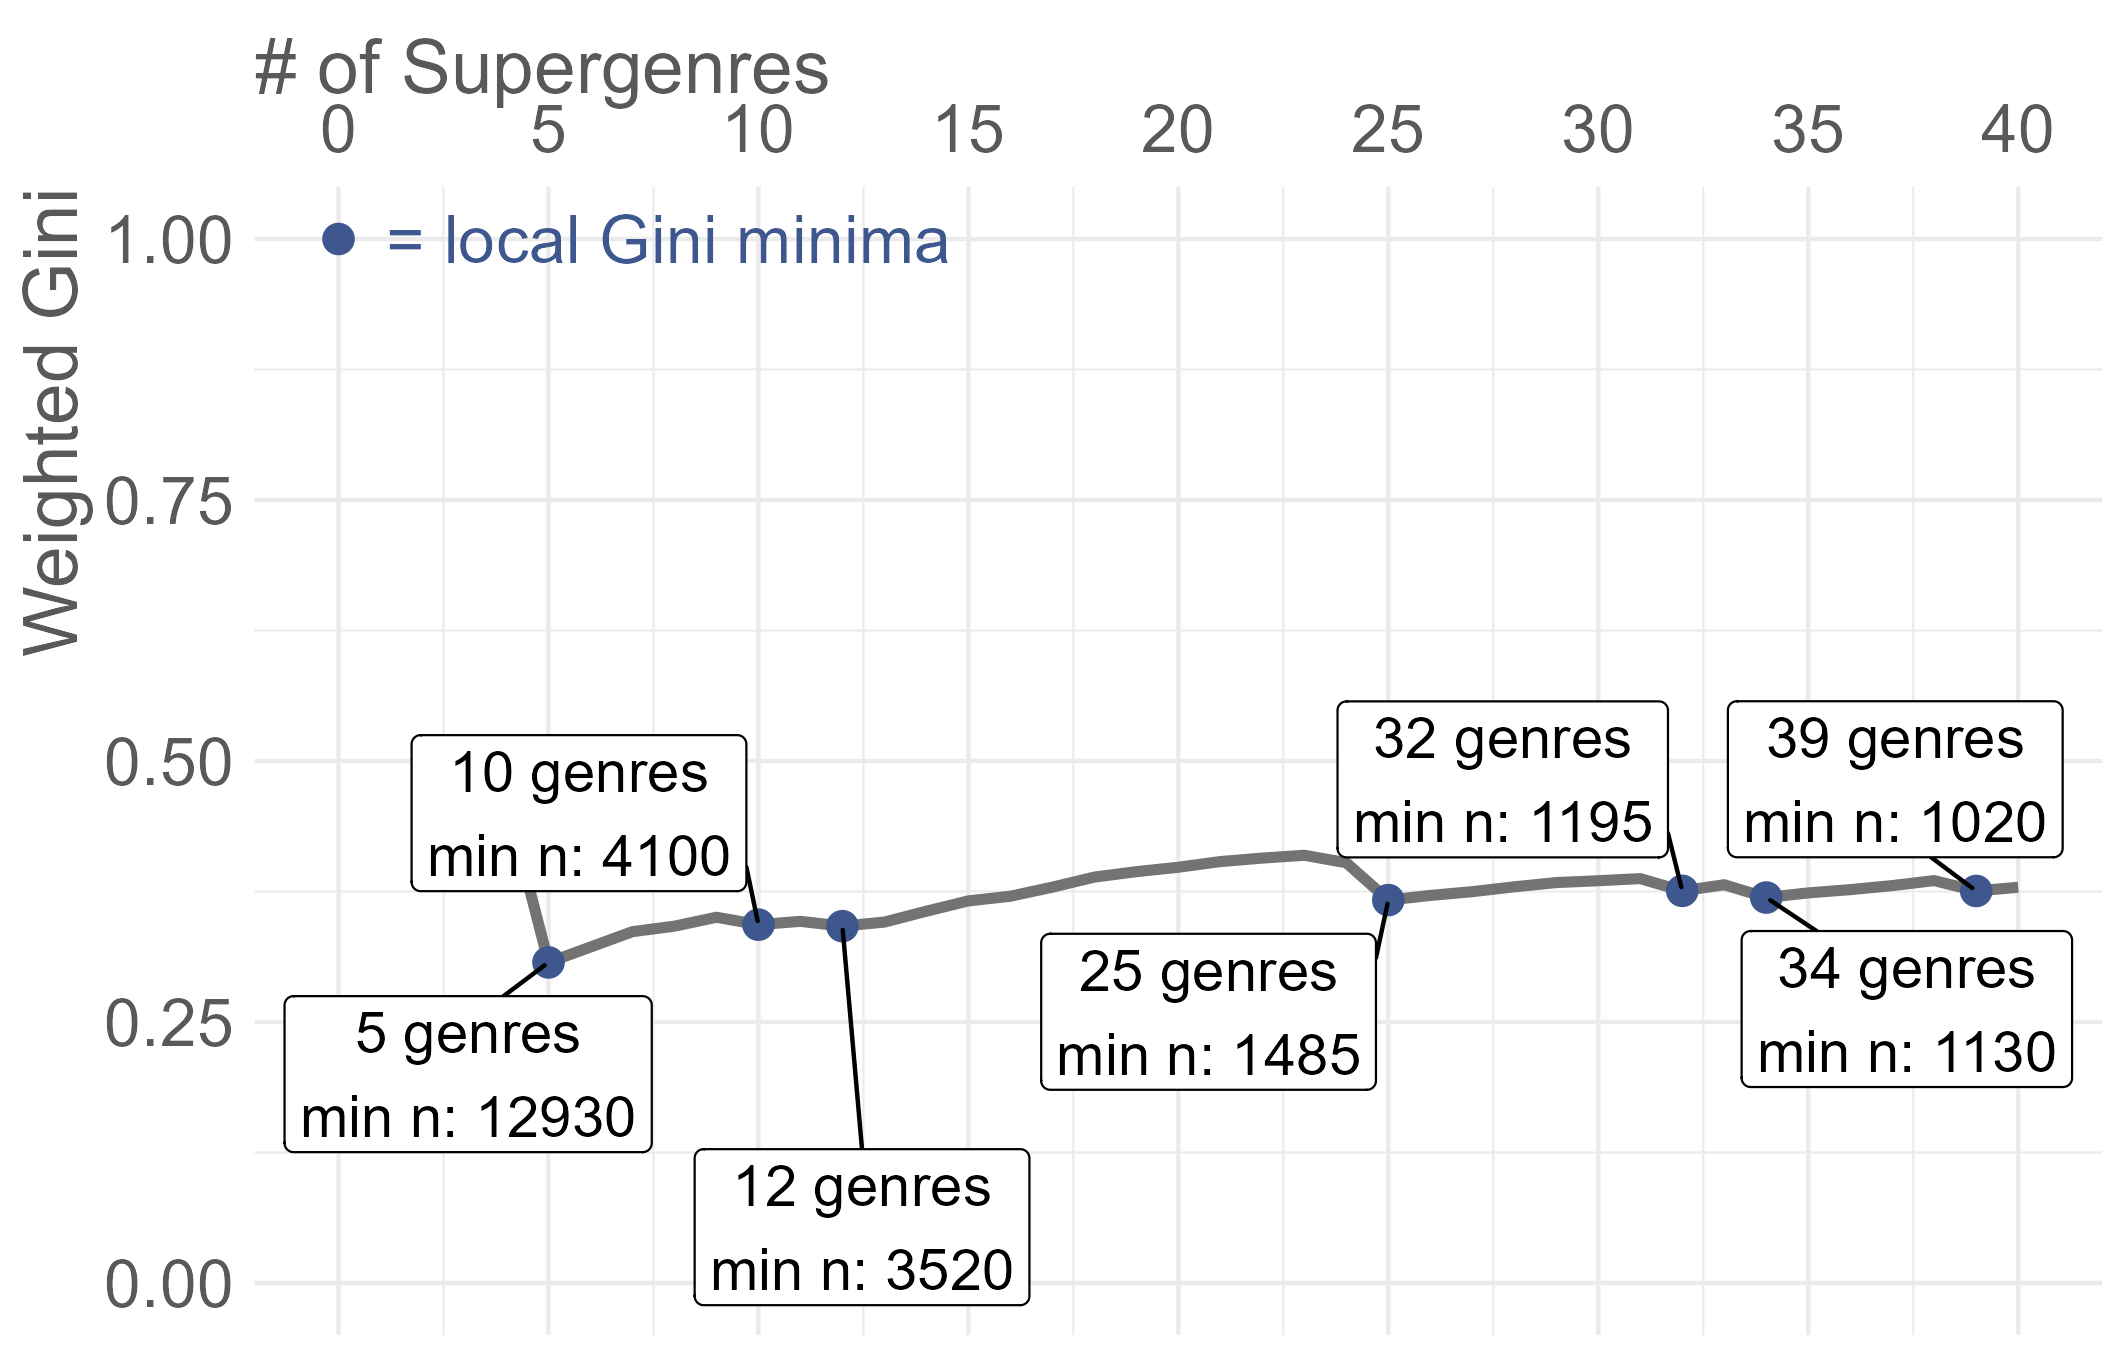
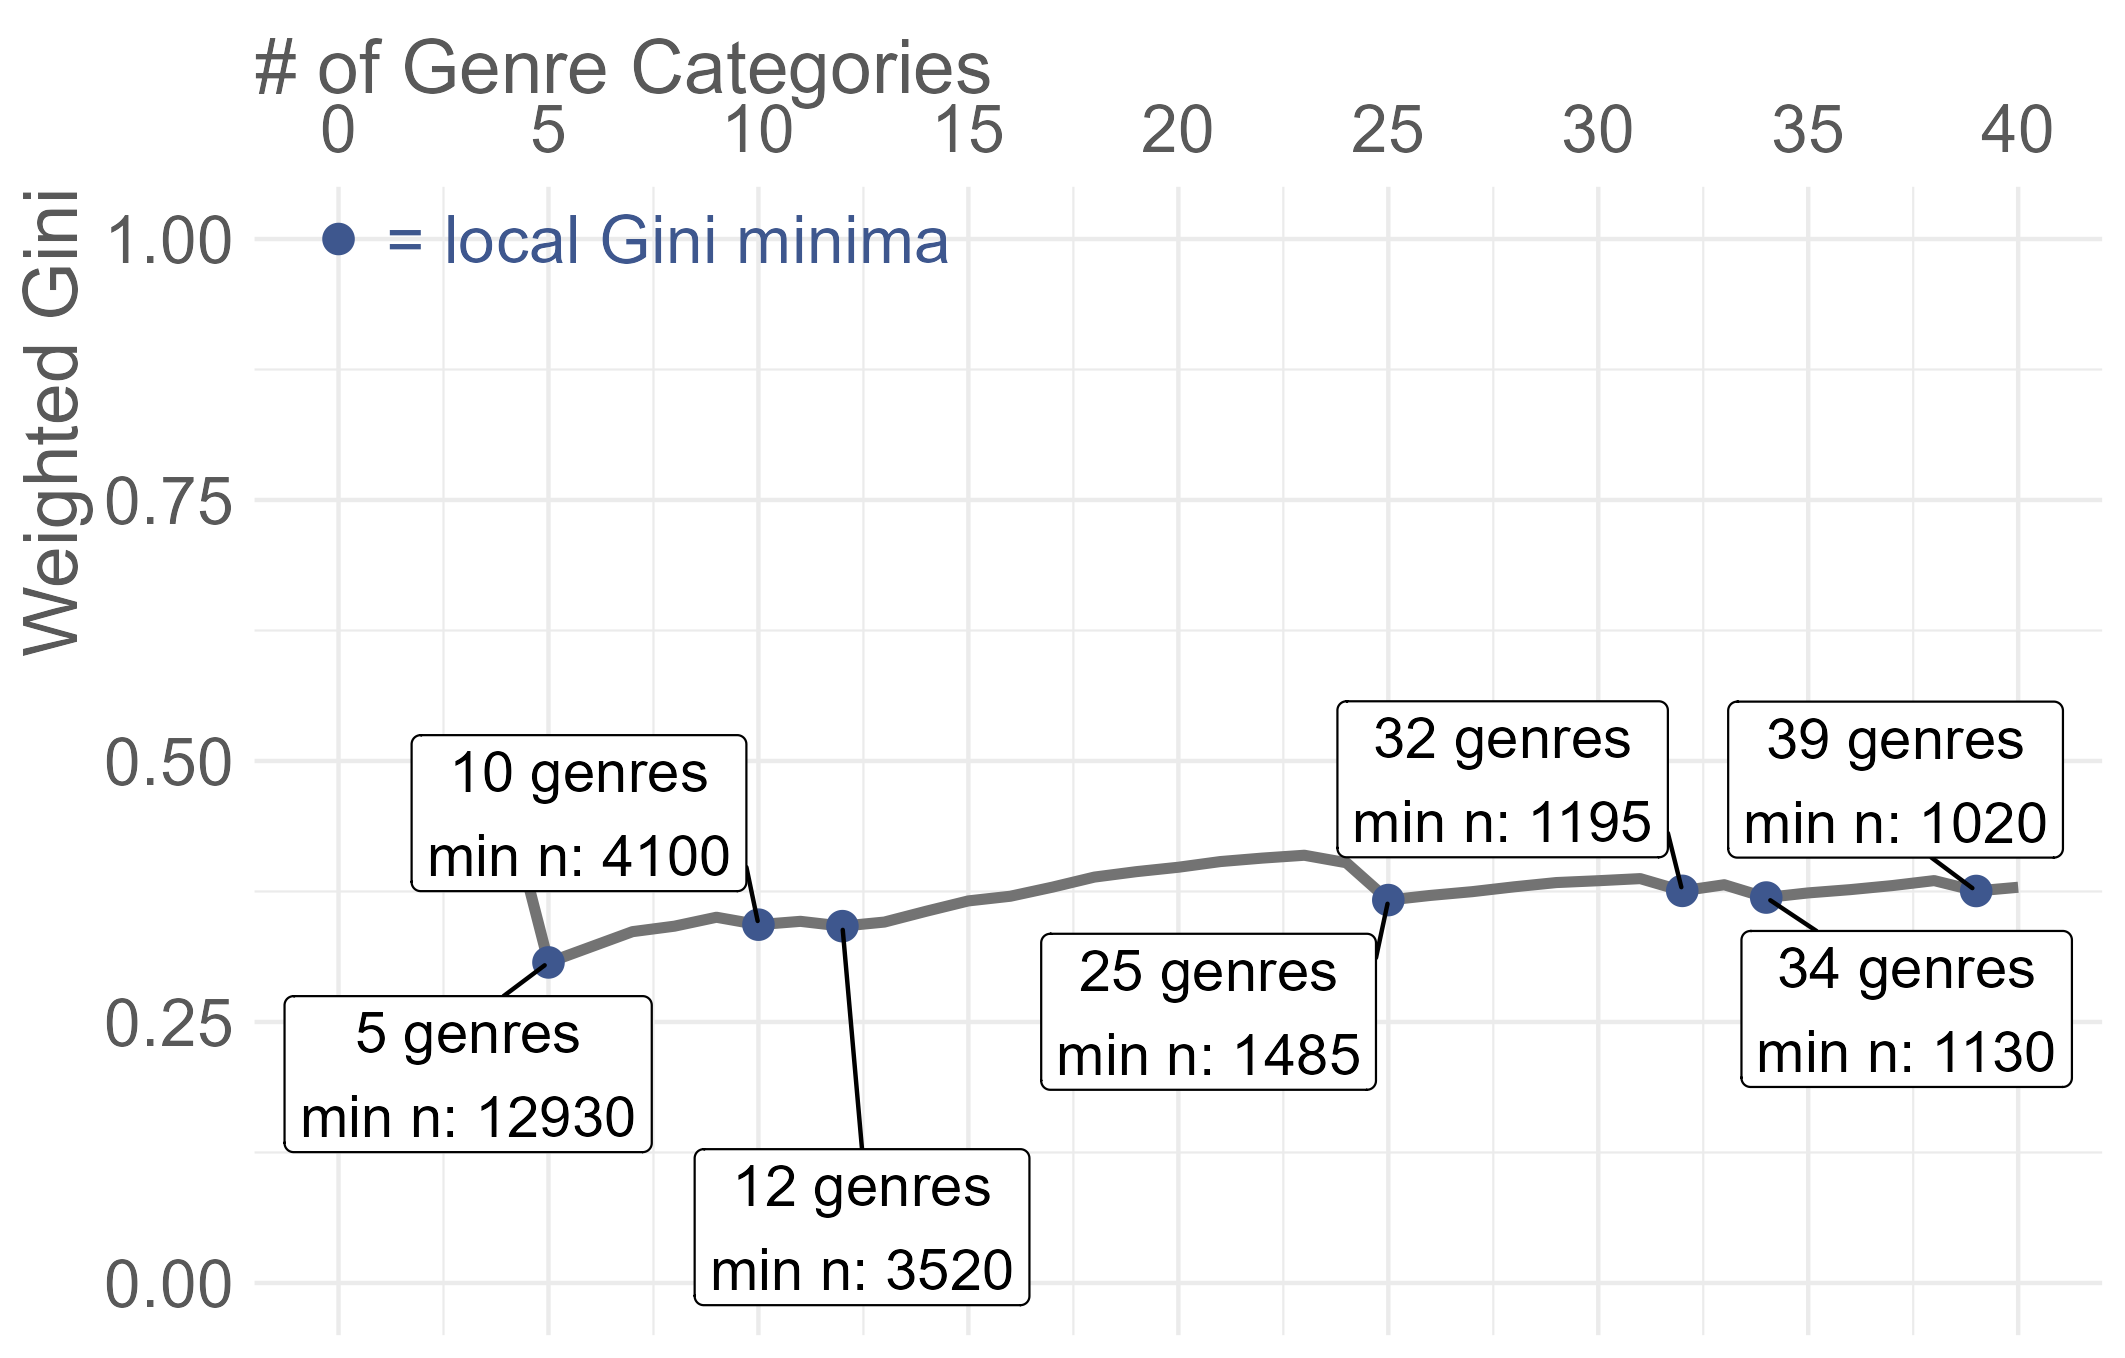
make genre category wording consistent in paper

diff --git a/reports/paper_v1/PowerToThePeople_v1.tex b/reports/paper_v1/PowerToThePeople_v1.tex
@@ -150,6 +150,7 @@ In the example this yields $e'_{\text{\textit{metal}} \rightarrow \text{\textit{
 
 Third, we enforced a strict tree-like structure by assigning each node its single strongest outgoing edge as its \textit{supergenre}; all other edges were discarded. Components without \textit{supergenre} were attached to an artificial root \textit{POPULAR MUSIC} to guarantee connectivity. In the example, \textit{metal} would attach to \textit{rock} unless a stronger edge existed, and \textit{rock} would attach to the root if it had no \textit{supergenre}.
 
+\label{sec:gini_explanation}
 Finally, we balanced the tree in terms of optimizing leaf-node populations on each tree level. Thereto, we estimated each genre node's size as the sum of its assignment probabilities across tracks in the corpus, then computed the Gini coefficient within each hierarchical tree-level for all genre nodes contained, and defined overall tree imbalance as the weighted mean of all tree-level Ginis. We then searched for the least-imbalanced tree by iteratively removing the weakest hierarchical link of the whole tree, reattaching the resulting dangling tree to \textit{POPULAR MUSIC}, and recomputing imbalance again; we then finally selected the iteration with minimal overall tree imbalance.
 
 
@@ -186,13 +187,12 @@ The balance optimization procedure (Figure \ref{fig:rq1_gini_trajectory}) reatta
 
 \section{RQ2: Scalable Granularity}
 \subsection{Methods: Folding Algorithm (FOLDCAT)}
+To derive a scalable number of broader \textit{genre categories} suitable for diverse research questions and statistical applications from COMGET-G, we developed a greedy folding algorithm (FOLDCAT) with three objectives: optimal \textit{genre category} balance, a user-selectable number of \textit{genre categories}, and sufficient track counts per \textit{genre} for robust machine learning and statistical analysis. FOLDCAT iteratively processes leaf \textit{genres} beginning with those deepest in the hierarchy and largest in track count, continuing to the root. For each leaf \textit{genre}, the algorithm checks whether it meets a minimum track count threshold. If it does and its supergenre can sustain removal, the algorithm keeps that leaf \textit{genre} as a \textit{genre category}. Otherwise, the algorithm absorbs the leaf \textit{genre}---along with its siblings and any descendants already processed---into its supergenre by remapping all track assignments upward. This procedure continues until all remaining \textit{genres} meet the minimum threshold. 
 
-In order to derive a scalable number of \textit{genre categories} suitable for diverse research questions and statistical applications from COMGET-G, we developed a greedy folding algorithm (FOLDCAT) aiming at three requirements: optimal \textit{genre category} balance, a user-selectable number of \textit{genre categories}, and sufficient track counts per \textit{genre} for robust machine learning and statistical analysis. FOLDCAT iteratively merges the least populous \textit{genre-nodes} furthest from the root of a COMGET tree with their \textit{supergenres} until all remaining \textit{genres} meet a minimum track count threshold. Here, \textit{genre node size} is again computed as the sum of vote-weighted assignment probabilities across all tracks.  For a desired number of \textit{genre categories}, users can now select the folding solution corresponding to the local Gini minimum, drawing on a tree-level-weighted Gini, thereby ensuring well-balanced categories for each original tree level. Please refer to the digital appendix for a more detailed description of the folding algorithm. 
-
-For the present exemplary analysis using the POPTRAG corpus containing Germany's popular music, we conducted a grid search across minimum \textit{genre sizes} from 1,000 to 15,000 in increments of 5, maximizing within-level balance as measured by a level-weighted Gini coefficient. We then chose 4 different local minima from results for comparision. 
+Here, \textit{genre size} is again computed as the sum of vote-weighted assignment probabilities across all tracks. For a desired number of \textit{genre categories}, users select the folding solution corresponding to a local Gini minimum, drawing on a hierarchy-level-weighted Gini coefficient (see section~\ref{sec:gini_explanation}), thereby ensuring well-balanced \textit{categories} across all hierarchy levels. A detailed flowchart of this procedure appears in the appendix. For the present exemplary analysis using the POPTRAG corpus, we conducted a grid search across minimum \textit{genre sizes} from 1,000 to 15,000 in increments of 5, then selected four different local Gini minima from the results for comparison.
 
 
-\subsection{Results: Germany's Popular Music Supergenres}
+\subsection{Results: Germany's Popular Music Genre Categories}
 
 \begin{figure}[htbp]
   \centering
@@ -201,27 +201,26 @@ For the present exemplary analysis using the POPTRAG corpus containing Germany's
 \label{fig:rq2_gini_trajectory}
 \end{figure}
 
-For our POPTRAG corpus, the folding algorithm identified multiple optimal solutions for a COMGET-G (Figure~\ref{fig:rq2_gini_trajectory}): a low-resolution solution with 5 \textit{genres} (min. 12,930 tracks, Gini 0.307), medium-resolution solutions with 10 and 12 \textit{genres} (min. 4,100 and 3,520 tracks; Gini 0.343 and 0.342), a high-resolution solution with 25 \textit{genres} (min. 1,485 tracks, Gini 0.367), and finer solutions with 32, 34, and 38 \textit{genres} (min. 1,195, 1,130, 1,020 tracks; Gini 0.376, 0.369, 0.375). We focused subsequent analyses on solutions with 5, 12, 25, and 32 \textit{genres}, representing different granularities suitable for various research questions (Figure~\ref{fig:rq2_tree}).
+For our POPTRAG corpus, the folding algorithm identified multiple optimal solutions for a COMGET-G (Figure~\ref{fig:rq2_gini_trajectory}): a low-granularity solution with 5 \textit{genre categories} (min. 12,930 tracks, Gini 0.307), medium-granularity solutions with 10 and 12 \textit{genre categories} (min. 4,100 and 3,520 tracks; Gini 0.343 and 0.342), a high-granularity solution with 25 \textit{genre categories} (min. 1,485 tracks, Gini 0.367), and solutions with higher granularity, comprising 32, 34, and 38 \textit{genre categories} (min. 1,195, 1,130, 1,020 tracks; Gini 0.376, 0.369, 0.375). We focused subsequent analyses on solutions with 5, 12, 25, and 32 \textit{genre categories}, representing different granularities suitable for various research questions (Figure~\ref{fig:rq2_tree}).
 
 
 \begin{figure}[htbp]
   \centering
   \includegraphics[width=\columnwidth]{figures/supergenre_hierarchy.png}
-  \caption{Folded COMGET-G hierarchies for POPTRAG corpus at four different resolutions (5, 12, 25, 32 genre categories). Colors indicate additional genres introduced at each finer resolution (blue = 5; red = 12; green = 25; grey = 32). Node size represents approximate track count in POPTRAG (sum of vote-weighted assignment probabilities).}
+  \caption{Folded COMGET-G hierarchies for POPTRAG corpus at four different granularities (5, 12, 25, 32 \textit{genre categories}). Colors indicate additional categories introduced at each finer resolution (blue = 5; red = 12; green = 25; grey = 32). Node size represents approximate track count in POPTRAG (sum of vote-weighted assignment probabilities).}
 \label{fig:rq2_tree}
 \end{figure}
 
-COMGET-G5 comprises \textit{rock}, \textit{pop}, \textit{hip hop}, \textit{electronic}, and \textit{metal} (in descending order of track count). In COMGET-G12, \textit{jazz} and \textit{schlager} emerge as further distinct \textit{pop subgenres}, while \textit{rock subgenres} including \textit{heavy metal}, \textit{alternative rock}, \textit{pop rock}, \textit{hard rock}, and \textit{indie rock} appear at the same level. Notably, listeners do not classify \textit{heavy metal} as a \textit{subgenre} of \textit{metal} but as a direct \textit{subgenre} of \textit{rock} on the same hierarchy level as \textit{metal}.
+COMGET-G5 comprises \textit{rock}, \textit{pop}, \textit{hip hop}, \textit{electronic}, and \textit{metal} (in descending order of track count). In COMGET-G12, \textit{jazz} and \textit{schlager} emerge as further distinct \textit{pop subgenre categories}, while \textit{rock subgenre categories} including \textit{heavy metal}, \textit{alternative rock}, \textit{pop rock}, \textit{hard rock}, and \textit{indie rock} appear at the same level. Notably, listeners do not classify \textit{heavy metal} as a \textit{subgenre category} of \textit{metal} but as a direct \textit{subgenre category} of \textit{rock} on the same hierarchy level as \textit{metal}.
 
-COMGET-G25 introduces further \textit{rock subgenres} (\textit{punk}, \textit{progressive rock}, \textit{folk}, \textit{folk rock}, \textit{classic rock}, \textit{blues rock}, \textit{singer-songwriter}) and additional \textit{pop subgenres} (\textit{soul}, \textit{classical}, \textit{synth-pop}, \textit{r\&b}). A third hierarchy level appears with \textit{death metal} as a \textit{subgenre} of \textit{metal} and \textit{power metal} as a \textit{subgenre} of \textit{heavy metal}. COMGET-G32 adds \textit{house} as an \textit{electronic subgenre} and additional \textit{rock} and \textit{pop} branches (\textit{blues}, \textit{country}, \textit{new wave}, \textit{soft rock}, \textit{dance-pop}, \textit{reggae}). \textit{hip hop} \textit{subgenres} appear only in more fine-grained solutions (\textit{pop rap} as 33rd genre, \textit{trap} as 38th genre).
+COMGET-G25 introduces further \textit{rock subgenre categories} (\textit{punk}, \textit{progressive rock}, \textit{folk}, \textit{folk rock}, \textit{classic rock}, \textit{blues rock}, \textit{singer-songwriter}) and additional \textit{pop subgenre categories} (\textit{soul}, \textit{classical}, \textit{synth-pop}, \textit{r\&b}). A third hierarchy level appears with \textit{death metal} as a \textit{subgenre category} of \textit{metal} and \textit{power metal} as a \textit{subgenre category} of \textit{heavy metal}. COMGET-G32 adds \textit{house} as an \textit{electronic subgenre category} and additional \textit{rock} and \textit{pop} branches (\textit{blues}, \textit{country}, \textit{new wave}, \textit{soft rock}, \textit{dance-pop}, \textit{reggae}). \textit{hip hop} \textit{subgenre categories} appear only in more fine-grained solutions (\textit{pop rap} as 33rd genre, \textit{trap} as 38th genre).
 
 
 \section{RQ3: Validity and ML-Classifier}
 \subsection{Methods: Single Labels, Content Validity, Features, Workflow}
-To compare the COMGET-G genre assignments to other folksonomies and for training a classifier, each track in the corpus obtained a \textit{single COMGET-G genre label} via majority voting: all valid original \textit{MusicBrainz} tags assigned to a track were mapped to their \textit{category assignment} in folded COMGET-G, then each track received the \textit{category} tag with the highest summed votes. Ties were resolved by selecting the \textit{genre} with lower total assignment probability in the full dataset, thereby favoring more detailed \textit{genre} assignments. We derived \textit{single genre labels} for each track at four levels of granularity (COMGET-G5, COMGET-G12, COMGET-G25, COMGET-G32). For demonstrating the content validity of our exemplary 12-genre solution, we compared resulting \textit{genre category assignments} to the genre labels assigned by the \textit{Discogs} community using a contingency table. 
+To compare the COMGET-G genre assignments to other folksonomies and for training a classifier, each track in the corpus obtained a \textit{single COMGET-G genre label} via majority voting: all valid original \textit{MusicBrainz} tags assigned to a track were mapped to their \textit{category assignment} in folded COMGET-G, then each track received the \textit{category} tag with the highest summed votes. Ties were resolved by selecting the \textit{genre category} with lower total assignment probability in the full dataset, thereby favoring more detailed \textit{genre category} assignments. We derived \textit{single genre labels} for each track at four levels of granularity (COMGET-G5, COMGET-G12, COMGET-G25, COMGET-G32). For demonstrating the content validity of our exemplary 12-genre solution, we compared resulting \textit{genre category assignments} to the genre labels assigned by the \textit{Discogs} community using a contingency table. 
 
-To determine if an automated classifier could predict the \textit{genres} identified by our COMGET-G folding algorithm, we trained independent classifiers for each. To that end, we augmented POPTRAG with 192 descriptor variables covering \textit{musical style}, \textit{release context}, \textit{lyrical content}, and \textit{popularity} from music platforms \textit{Spotify}, \textit{MusicBrainz}, \textit{AcousticBrainz}, \textit{Genius}, and \textit{Deezer} via ISRC matching or fuzzy string matching via either API-access or web scraping. \textit{AcousticBrainz} provided community-calculated \textit{audio features}; \textit{MusicBrainz} supplied artist demographics (\textit{persona}, \textit{origin}, \textit{birth year}, \textit{gender}); \textit{Spotify} and \textit{Deezer} contributed \textit{popularity} metrics and \textit{Echo-Nest audio features}. From \textit{Spotify's artist-level genre} tags we derived 69 distribution-genre flags (e.g., whether a track's artist is tagged as `reggae' on \textit{Spotify}) by applying the same co-occurrence algorithm used to build COMGET-G but operating on Spotify artist genres.
-
+To determine if an automated classifier could predict the COMGET-G \textit{genre categories} identified by FOLDCAT, we trained independent classifiers for each. To that end, we augmented POPTRAG with 192 descriptor variables covering \textit{musical style}, \textit{release context}, \textit{lyrical content}, and \textit{popularity} from music platforms \textit{Spotify}, \textit{MusicBrainz}, \textit{AcousticBrainz}, \textit{Genius}, and \textit{Deezer} via ISRC matching or fuzzy string matching via either API-access or web scraping. \textit{AcousticBrainz} provided community-calculated \textit{audio features}; \textit{MusicBrainz} supplied artist demographics (\textit{persona}, \textit{origin}, \textit{birth year}, \textit{gender}); \textit{Spotify} and \textit{Deezer} contributed \textit{popularity} metrics and \textit{Echo-Nest audio features}. From \textit{Spotify's artist-level genre} tags we derived 69 distribution-genre flags (e.g., whether a track's artist is tagged as `reggae' on \textit{Spotify}) by applying the same co-occurrence algorithm used to build COMGET-G but operating on Spotify artist genres.
 
 In our workflow, we first discarded observations with more than 40\% missing values on any variable, retaining 155,093 tracks (92\%). We then performed an 80/20 train–holdout split at the artist level to mitigate artist leakage effects~\citep{flexerEffectsAlbumArtist2010}. For training, we employed 5-fold cross-validation (also group-split by artist) for hyperparameter tuning. To stabilize categorical predictors, we drew a 20\% subsample of the training set, created artist‑grouped CV folds on that subsample, and relabeled any factor level that occurred fewer than 100 times in at least one fold as ``other''. Predictors that collapsed to a single ``other''-level as well as two‑level predictors where the ``other'' level had fewer than 100 observations, were removed. This cleaning reduced the number of variables from 192 to 149. All remaining categorical predictors were dummy-coded, using the most common level as the reference.
 
@@ -250,7 +249,7 @@ After selecting the learner with best performance accross folds, we performed a 
   \label{fig:rq2_dc}
 \end{figure}
 
-\textit{Discogs'} 15-genre taxonomy approximates COMGET-G12 in scale. For approximately 5\% of tracks with COMGET-G assignments, we found no \textit{Discogs} counterpart, introducing minimal popularity bias. The contingency table (Figure~\ref{fig:rq2_dc}) reveals strong alignment for \textit{electronic}, \textit{hard rock}, and \textit{metal}. Even where \textit{Discogs} includes a \textit{Jazz} category, COMGET-G's \textit{jazz} overlaps substantially with \textit{Discogs'} \textit{Electronic} and \textit{Pop}. Similarly, \textit{pop rock} is distributed across Discogs' \textit{Rock}, \textit{Pop}, and \textit{Electronic}; \textit{schlager} emerges in \textit{Pop} (similar label to its COMGET-G \textit{supergenre}) with minor overlap to \textit{Rock}. Five \textit{Discogs} categories—\textit{Blues}, \textit{Brass \& Military}, \textit{Children's}, \textit{Non-music}, and \textit{Stage \& Screen}—show minimal correspondence to any COMGET-G12 \textit{genre}, mostly consistent with our noise-reduction filtering and focus on popular music. COMGET-G's \textit{pop} category is distributed widely across \textit{Discogs genres} (\textit{eEectronic}, \textit{Pop}, \textit{Rock}), reflecting pop's eclectic character. Seven of twelve COMGET-G12 \textit{genres} overlap most strongly with \textit{Discogs' Rock}, suggesting \textit{Discogs} lacks granular rock subgenre labels needed to represent German popular music adequately.
+\textit{Discogs'} 15-genre taxonomy approximates COMGET-G12 in scale. For approximately 5\% of tracks with COMGET-G assignments, we found no \textit{Discogs} counterpart, introducing minimal popularity bias. The contingency table (Figure~\ref{fig:rq2_dc}) reveals strong alignment for \textit{electronic}, \textit{hard rock}, and \textit{metal}. Even where \textit{Discogs} includes a \textit{Jazz} category, COMGET-G's \textit{jazz} overlaps substantially with \textit{Discogs'} \textit{Electronic} and \textit{Pop}. Similarly, \textit{pop rock} is distributed across Discogs' \textit{Rock}, \textit{Pop}, and \textit{Electronic}; \textit{schlager} emerges in \textit{Pop} (similar label to its COMGET-G \textit{supergenre}) with minor overlap to \textit{Rock}. Five \textit{Discogs} categories—\textit{Blues}, \textit{Brass \& Military}, \textit{Children's}, \textit{Non-music}, and \textit{Stage \& Screen}—show minimal correspondence to any COMGET-G12 \textit{genre category}, mostly consistent with our noise-reduction filtering and focus on popular music. COMGET-G's \textit{pop} category is distributed widely across \textit{Discogs genres} (\textit{eEectronic}, \textit{Pop}, \textit{Rock}), reflecting pop's eclectic character. Seven of twelve COMGET-G12 \textit{genre categories} overlap most strongly with \textit{Discogs' Rock}, suggesting \textit{Discogs} lacks granular rock subgenre category labels needed to represent German popular music adequately.
 
 \subsection{Results: Classification Performance for different degrees of granularity}
 \begin{figure}[htbp]
@@ -260,7 +259,7 @@ After selecting the learner with best performance accross folds, we performed a 
 \label{fig:rq3_proto}
 \end{figure}
 
-Model comparison (Figure~\ref{fig:rq3_proto}) shows that all four learners perform similarly on the 20\% subsample in terms of macro F1. LightGBM emerged as the strongest performer at both resolutions (COMGET-G5 and COMGET-G12) and was selected as the final learner for all subsequent analyses. GLMNET ranked second for COMGET-G5 but performed worst for COMGET-G12, indicating that its linear decision boundary assumption does not scale to higher-resolution classification tasks.
+Model comparison (Figure~\ref{fig:rq3_proto}) shows that all four learners perform similarly on the 20\% subsample in terms of macro F1. LightGBM emerged as the strongest performer at both granularities (COMGET-G5 and COMGET-G12) and was selected as the final learner for all subsequent analyses. GLMNET ranked second for COMGET-G5 but performed worst for COMGET-G12, indicating that its linear decision boundary assumption does not scale to higher-resolution classification tasks.
 
 \begin{figure*}[htbp]
   \centering
@@ -278,7 +277,7 @@ Model comparison (Figure~\ref{fig:rq3_proto}) shows that all four learners perfo
     \caption{COMGET-G12}
     \label{fig:rq3_cm_medium}
   \end{subfigure}
-  \caption{Confusion matrices for the final GBM models on the hold-out set. Values show $P(\text{Predicted}|\text{Actual})$; \textit{certainty} indicates the mean assignment probability for each \textit{genre} across community votes.}
+  \caption{Confusion matrices for the final GBM models on the hold-out set. Values show $P(\text{Predicted}|\text{Actual})$; \textit{certainty} indicates the mean assignment probability for each \textit{genre category} across community votes.}
 \label{fig:rq3_cm_low_medium}
 \end{figure*}
 
@@ -327,12 +326,12 @@ COMGET-G32 yielded a further degradation in benchmarks ($\text{F1}_{\text{macro;
 \end{figure}
 
 
-Figure \ref{fig:rq3_varimp} shows the top 20 most important features for automated classification of COMGET-G5, COMGET-G12, and COMGET-G25 with the final LightGBM learner. While we find similar features in the top 20 across all three levels of granularity (e.g., \textit{acousticness (ECHONEST)}, \textit{artist distributed as ``metal''}, \textit{age of artist}), the importance of single features differs. For COMGET-G5, features that describe general style characteristics (e.g., \textit{acousticness}, \textit{speeciness}, \textit{explicitness of lyrics}) and artist persona (e.g., \textit{single artist vs. band}, \textit{age of artist}) are most important. For COMGET-G12, \textit{popularity} features and the \textit{release year} gain importance. For COMEGET-25G the most important features are mostly artist-related, indicating that fine-grained \textit{genre} distinctions rely primarily on release-milieu signals rather than audio properties.
+Figure \ref{fig:rq3_varimp} shows the top 20 most important features for automated classification of COMGET-G5 and COMGET-G12 with the final LightGBM learner. While we find similar features in the top 20 across all three levels of granularity (e.g., \textit{acousticness (Echo-Nest)}, \textit{artist distributed as ``metal''}, \textit{age of artist}), the importance of single features differs. For COMGET-G5, features that describe general style characteristics (e.g., \textit{acousticness}, \textit{speeciness}, \textit{explicitness of lyrics}) and artist persona (e.g., \textit{single artist vs. band}, \textit{age of artist}) are most important. For COMGET-G12, \textit{popularity} features and the \textit{release year} gain importance. For COMEGET-25G the most important features are mostly artist-related, indicating that fine-grained \textit{genre} distinctions rely primarily on release-milieu signals rather than audio properties.
 
 
 \section{Discussion}
 
-With the present article, we introduce a novel and methodologically transparent procedure for constructing hierarchical genre taxonomies and according genre category assingments from listener-community discourse contained in folksonomies on open music database. Specifically, we make three key contributions: (1) an algorithm to construct a balanced hierarchical genre tree (COMGET-G) from folksonomy genre tag co-occurrences , (2) a  folding algorithm that generates optimally balanced hierarchical genre category systems and final track-assignments at user-specified granularities from such trees, and (3) we demonstrate that resulting community-based genre assignments are a) comparable to existing open genre taxonomies (i.e. Discogs) and b) can be learned well with supervised machine learning by drawing on openly availiable music descriptors, hence can be used as a transparent, reproducible, and empirically grounded alternative to commercial or expert-curated genre taxonomies in future applied or basic research.  We demonstrated our approach with a large German popular music corpus (POPTRAG) and drawing on \textit{MusicBrainz} folksonomy votes and the POPTRAG corpus. Nevertheless, it can in principle be adopted to any other music corpus and other genre tagging systems that allow co-occurences of tags (e.g. Spotify, YouTube, SoundCloud).
+With the present article, we introduce a novel and methodologically transparent procedure for constructing hierarchical genre taxonomies and according genre category assingments from listener-community discourse contained in folksonomies on open music database. Specifically, we make three key contributions: (1) an algorithm to construct a balanced hierarchical genre tree (COMGET-G) from folksonomy genre tag co-occurrences , (2) a  folding algorithm (FOLDCAT) that generates optimally balanced hierarchical genre category systems and final track-assignments at user-specified granularities from such trees, and (3) we demonstrate that resulting community-based genre assignments are a) comparable to existing open genre taxonomies (i.e. Discogs) and b) can be learned well with supervised machine learning by drawing on openly availiable music descriptors, hence can be used as a transparent, reproducible, and empirically grounded alternative to commercial or expert-curated genre taxonomies in future applied or basic research.  We demonstrated our approach with a large German popular music corpus (POPTRAG), drawing on \textit{MusicBrainz} folksonomy votes. Nevertheless, the method can in principle be adopted to any other music corpus and other genre tagging systems that provides co-occurences of tags (e.g. Spotify, YouTube, SoundCloud).
 
 
 \subsection{Balanced and Scalable Representation of Discourse}
@@ -350,8 +349,8 @@ Rock, pop, and hip hop emerged as three primary genre clusters in German popular
 
 %
 
-\subsection{Classifier Performance in MGR}
-As~\cite[p. 5]{holtGenrePopularMusic2007} noted, semantic codes of musical genres are fragile. This makes MGR such a challenging endeavor. Even experts in the field do not agree completely on genre assignments~\citep{palmasonMusicGenreClassification2018}; so apparent misclassifications might also reflect genuine genre overlap rather than model failure. In other words: Models cannot exceed human consistency~\citep{sturmReviewValidityIts2023}. Given community uncertainty in genre assignments, our classifiers achieved reasonable overall performance. We observe the expected degradation with increasing label granularity~\citep{genussovMusicalGenreClassification2010}, mirroring declining community certainty. Also, subgenres are harder to be detected than supergenres in general, probably due to shifting boundaries~\citep{silverGenreComplexesPopular2016}. Artist-level features dominated across granularities, indicating that release milieu (i.e., how platforms and industry position artists) guides listener genre perception. This aligns with sociological genre theory emphasizing industry, text, and subject as coconstitutive~\citep{nealeGenre1980}. Stylistic features, such as audio and lyrics features, contributed significantly but secondarily. Lyric features especially showed weak predictive power, despite utility in other work~\citep{mayerRhymeStyleFeatures2008}. Incorporating LLM-based lyric embeddings might capture cultural context more richly and better discriminate release milieu~\citep{prevedelloLyricsSuccessEmbedding2024}.
+\subsection{Classifier Performance in music genre recognition}
+As~\cite[p. 5]{holtGenrePopularMusic2007} noted, semantic codes of musical genres are fragile. This makes music genre recognition such a challenging endeavor. Even experts in the field do not agree completely on genre assignments~\citep{palmasonMusicGenreClassification2018}; so apparent misclassifications might also reflect genuine genre overlap rather than model failure. In other words: Models cannot exceed human consistency~\citep{sturmReviewValidityIts2023}. Given community uncertainty in genre assignments, our classifiers achieved reasonable overall performance. We observe the expected degradation with increasing label granularity~\citep{genussovMusicalGenreClassification2010}, mirroring declining community certainty. Also, subgenres are harder to be detected than supergenres in general, probably due to shifting boundaries~\citep{silverGenreComplexesPopular2016}. Artist-level features dominated across granularities, indicating that release milieu (i.e., how platforms and industry position artists) guides listener genre perception. This aligns with sociological genre theory emphasizing industry, text, and subject as coconstitutive~\citep{nealeGenre1980}. Stylistic features, such as audio and lyrics features, contributed significantly but secondarily. Lyric features especially showed weak predictive power, despite utility in other work~\citep{mayerRhymeStyleFeatures2008}. Incorporating LLM-based lyric embeddings might capture cultural context more richly and better discriminate release milieu~\citep{prevedelloLyricsSuccessEmbedding2024}.
 
 
 \subsection{Limitations and Future Research}